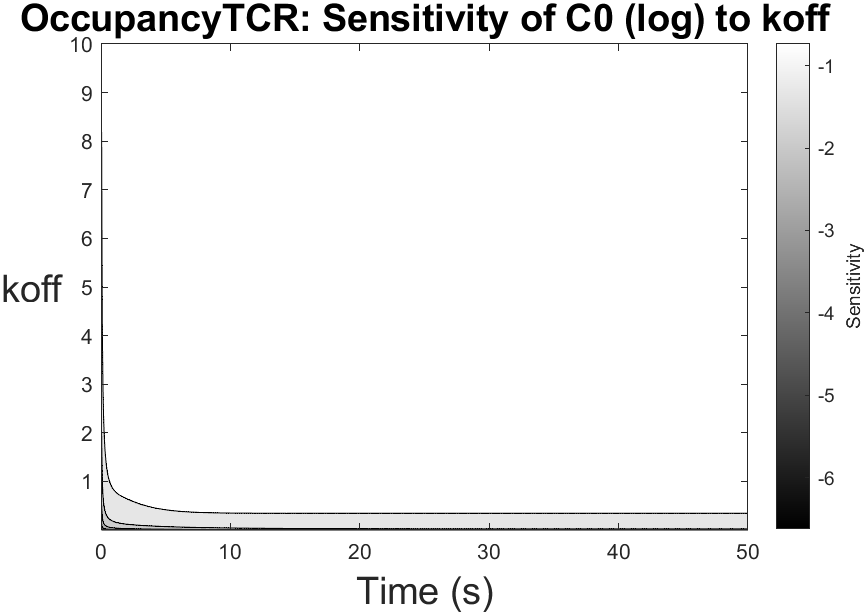
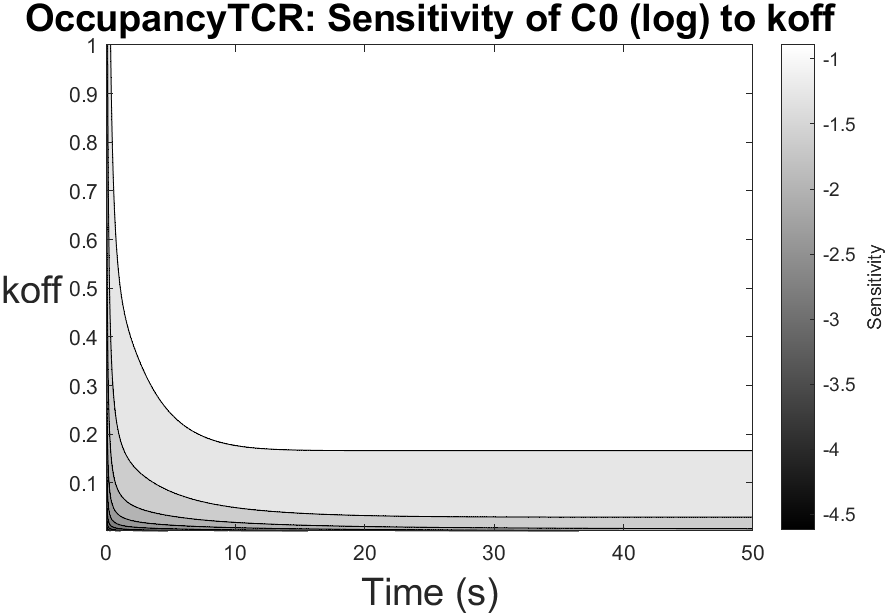
a

Changed region(s): [[0.0, 0.0, 0.9965, 1.0]]

diff --git a/v.6/models/OccupancyTCR_options.m b/v.6/models/OccupancyTCR_options.m
@@ -7,7 +7,7 @@ model.param_values =[5e-5, 0.01];
 model.param_names = {'kon', 'koff'};
 
 % === PARAMETER RANGE VALUES ===
-model.range_type = 1;
+model.range_type = 2;
 % Choose one option:
 %   1 -> default range: 3 orders of magnitude below and 3 above the nominal parameter value.
 %   2 -> define [min, max] for each parameter and the number of points
